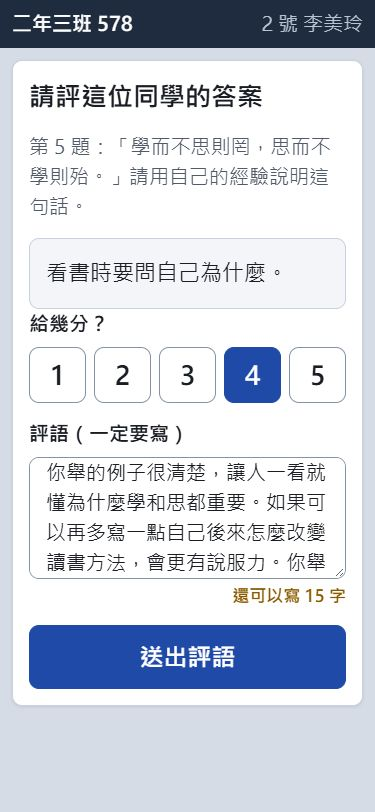
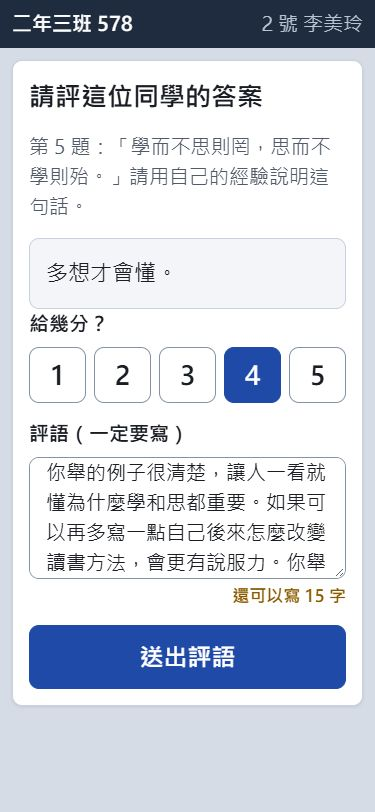
Show up to two lines per question in the lesson results
Review fix: the question text in 下課結果 wraps to two lines before
it is cut off, so each row is recognizable; the result stays on one line.

Changed region(s): [[0.1173, 0.3079, 0.4693, 0.3695], [0.4987, 0.3079, 0.704, 0.3695]]

diff --git a/src/student/student.css b/src/student/student.css
@@ -125,8 +125,9 @@
   padding: var(--space-1) 4px;
   border-bottom: 1px solid var(--border);
 }
-.result-snippet { flex: 1; min-width: 0; }
-.result-mark { flex: none; font-weight: 700; }
+/* Up to two lines of the question, then 「…」; the result stays on one line. */
+.result-snippet { flex: 1; min-width: 0; display: -webkit-box; -webkit-line-clamp: 2; -webkit-box-orient: vertical; overflow: hidden; overflow-wrap: anywhere; }
+.result-mark { flex: none; font-weight: 700; white-space: nowrap; }
 .result-correct .result-mark { color: var(--success); }
 .result-wrong .result-mark { color: var(--danger); }
 .result-hidden .result-mark, .result-unanswered .result-mark, .result-unscored .result-mark { color: var(--text-muted); font-weight: 400; }

diff --git a/src/student/main.tsx b/src/student/main.tsx
@@ -253,7 +253,7 @@ function LessonResultView({ result, onLeave }: { result: LessonResult; onLeave: 
       <ol class="result-list">
         {result.items.map((item) => (
           <li key={item.number} class={`result-item result-${item.result}`}>
-            <span class="result-snippet truncate">
+            <span class="result-snippet">
               {item.number}. {item.snippet}
             </span>
             <span class="result-mark">
